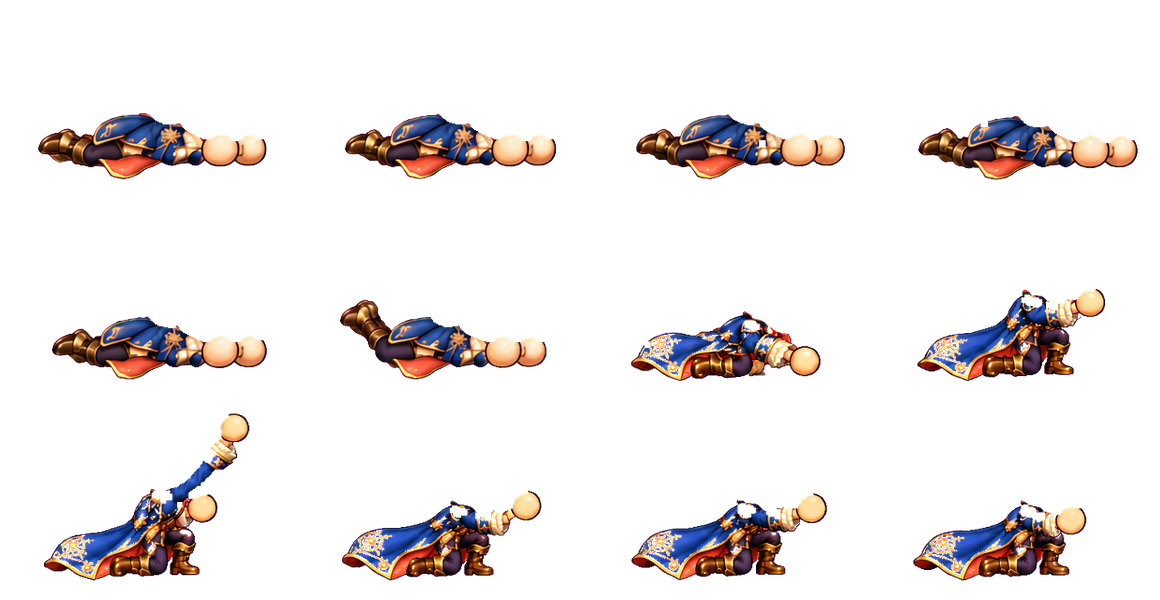
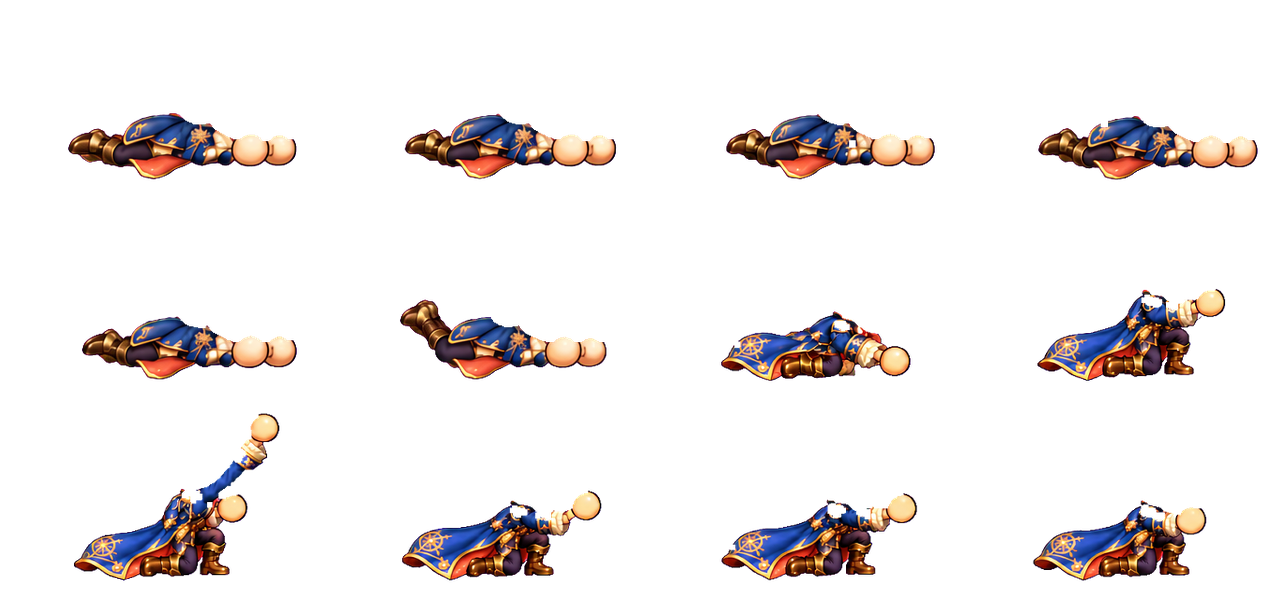
Lobby walk from a painted 6-frame sheet; combat atlas rebuilt with painted fists on both sheets
Claude-Session: https://claude.ai/code/session_01SNM3Fnyw111WXwJ74f5KjW

diff --git a/docs/combat-frames.md b/docs/combat-frames.md
@@ -1,6 +1,6 @@
 # Combate em quadros pintados (como no DDTank)
 
-Pedido do usuário em 18/10/2026, a partir do relatório `output/pdf/DDTank-rig-corpo-combate.pdf`: o corpo de combate funciona como o compositor de sprites do DDTank. Cada roupa traz as poses de combate **pintadas** em células compatíveis; o jogo só escolhe o quadro da ação atual e empilha por cima, no mesmo espaço, a cabeça universal, o cabelo, o chapéu, os óculos e a arma nas costas. Deitado para andar e mirar, **ajoelhado para arremessar** (nunca fica de pé), arma presa nas costas o tempo todo. Revisão de 18/10 à tarde (pedido do matheus): o corpo é pequeno como no DDTank, menor que a cabeça, e as **mãos são universais**: um punho redondo simples (pouco mais largo que alto, três tons de pele e contorno quase preto), sem dedos, preso a um antebraço desenhado pelo jogo (a manga continua do ombro ao cotovelo do boneco e segue até o punho, na cor `sleeve` da roupa em `combatAtlas.json` ou na cor do Ticket, com punho claro e um pouco de pulso), desenhado pelo jogo em todos os personagens na cor da pele (como no DDTank). Deitado, os dois punhos ficam lado a lado na frente do queixo, com a base na mesma linha, e o da frente é menor (cerca de 2/3), como medido na simulação do DDTank. O deitado segue as medidas da simulação do DDTank: cabeça parada, corpo curto e reto (cerca de meia cabeça aparece atrás dela), punhos sob o queixo, arma baixa atrás do quadril. Vale para todas as roupas, sem números por roupa.
+Pedido do usuário em 18/10/2026, a partir do relatório `output/pdf/DDTank-rig-corpo-combate.pdf`: o corpo de combate funciona como o compositor de sprites do DDTank. Cada roupa traz as poses de combate **pintadas** em células compatíveis; o jogo só escolhe o quadro da ação atual e empilha por cima, no mesmo espaço, a cabeça universal, o cabelo, o chapéu, os óculos e a arma nas costas. Deitado para andar e mirar, **ajoelhado para arremessar** (nunca fica de pé), arma presa nas costas o tempo todo. Revisão de 18/10 à tarde (pedido do matheus): o corpo é pequeno como no DDTank, menor que a cabeça, e, desde a revisão de 18/10 à noite (pedido do matheus: "faça por spritesheet"), as **mãos são pintadas na prancha da roupa**, como no DDTank: braço com manga e punho, terminando num punho redondo sem dedos pintado sobre os discos cor de pele do molde; o jogo tinge a pele com a cor do jogador (`tintSkin`). Quadros com `hands: true` em `combatAtlas.json` não recebem o punho desenhado em código; atlas antigos (discos ciano) continuam com o punho e o antebraço desenhados pelo jogo. Deitado, os dois punhos ficam lado a lado na frente do queixo, com a base na mesma linha, e o da frente é menor (cerca de 2/3), como medido na simulação do DDTank. O deitado segue as medidas da simulação do DDTank: cabeça parada, corpo curto e reto (cerca de meia cabeça aparece atrás dela), punhos sob o queixo, arma baixa atrás do quadril. Vale para todas as roupas, sem números por roupa.
 
 ## Quadros (`src/game/rig/combatFrames.json`)
 
@@ -27,9 +27,9 @@ O servidor anda 8 px a cada comando (90 ms). O cliente persegue essa posição e
 
 ## Arte de uma roupa nova
 
-1. `python3 scripts/make-combat-templates.py` gera os moldes `docs/templates/combat-ground.png` e `combat-throw.png`: 3×2 células de 512 px sobre magenta, com a cabeça como silhueta verde, o corpo como boneco cinza pequeno (`mannequin` no contrato, no tamanho do DDTank) e os punhos como discos ciano, onde o jogo desenha a mão universal.
-2. O Codex pinta a roupa por cima do boneco cinza, sem mãos (mangas terminam no cotovelo), com os prompts de `docs/combat-art-prompts/`: anexar o molde, a roupa em pé e as referências de pose do relatório (`output/pdf/ddtank-rig-imagens/04`, `05`, `06`). As referências do DDTank servem só de pose; a arte é nossa.
-3. `python3 scripts/build-combat-atlas.py outfit-<id>` acha a cabeça verde de cada quadro, escala a prancha para a cabeça universal, apaga o verde, coloca o corpo na célula do atlas (cabeça no x do contrato, linha mais baixa no chão) e grava `public/assets/outfits/combat/outfit-<id>.png` e a altura medida da cabeça em `src/game/combatAtlas.json`. Avisa quando o corpo pintado passa 30% do boneco cinza. Avisos e erros em `test-results/combat/outfit-<id>/`.
+1. `python3 scripts/make-combat-templates.py` gera os moldes `docs/templates/combat-ground.png` e `combat-throw.png`: 3×2 células de 512 px sobre magenta, com a cabeça como silhueta verde, o corpo como boneco cinza pequeno (`mannequin` no contrato, no tamanho do DDTank) braços cinza e os punhos como discos cor de pele com contorno.
+2. O Codex pinta a roupa por cima do boneco cinza, com braços e punhos redondos sobre os discos, com os prompts de `docs/combat-art-prompts/`: anexar o molde, a roupa em pé e as referências de pose do relatório (`output/pdf/ddtank-rig-imagens/04`, `05`, `06`). As referências do DDTank servem só de pose; a arte é nossa.
+3. `python3 scripts/build-combat-atlas.py outfit-<id>` (com `-` no lugar de uma prancha mantém os quadros dela do atlas atual) acha a cabeça verde de cada quadro, escala a prancha para a cabeça universal, apaga o verde, coloca o corpo na célula do atlas (cabeça no x do contrato, linha mais baixa no chão) e grava `public/assets/outfits/combat/outfit-<id>.png` e a altura medida da cabeça em `src/game/combatAtlas.json`. Avisa quando o corpo pintado passa 30% do boneco cinza. Avisos e erros em `test-results/combat/outfit-<id>/`.
 4. `node scripts/verify-combat-frames.mjs` monta a prancha de todas as roupas × ações (`test-results/combat/combat-frames.png`) para mostrar ao usuário.
 
 Roupa sem atlas continua no corpo deitado recortado antigo (`docs/prone-combat.md`). O Ticket de Cor e a cor do corpo se aplicam ao atlas inteiro pela mesma zona da roupa.
@@ -37,3 +37,7 @@ Roupa sem atlas continua no corpo deitado recortado antigo (`docs/prone-combat.m
 ## Fantasias
 
 A fantasia substitui as peças (como no DDTank) e já tem a prancha deitada (`-prone.png`). Para ficar de pé no arremesso ganha `-throw.png` (mesmos 6 quadros de `rise` a `settle`, cabeça própria sobre a silhueta verde do molde), registrada em `throw` no `COSTUMES` de `costumes.ts`; prompt `costume-throw.txt`.
+
+## Andar do lobby (folha pintada)
+
+Como no DDTank, o andar fora de combate também é uma folha pintada: `python3 scripts/make-walk-template.py` gera `docs/templates/walk.png` (6 quadros: contato, descida, passagem, com cada perna; contrato em `src/game/rig/walkFrames.json`), o Codex pinta com `docs/combat-art-prompts/walk.txt` e `python3 scripts/build-walk-atlas.py outfit-<id>` grava `public/assets/outfits/walk/outfit-<id>.png` e `src/game/walkAtlas.json` (altura da cabeça de cada quadro). O jogo troca de quadro pela distância andada (`frameUnits`) e põe a cabeça por cima no lugar medido (`src/game/walkBody.ts`). Roupa sem folha de andar continua com as pernas recortadas da pintura em pé.

diff --git a/CLAUDE.md b/CLAUDE.md
@@ -63,7 +63,7 @@ Regra geral: ele quer arte **pintada, nível DDTank**, com volume e cores vivas.
 - **Roupa única** (18/10, pedido do matheus para não ter de regenerar todas): o jogo tem só o **Cartógrafo da Aurora**, unissex e inicial de todos; Surfista, Executivo, Piloto e Dançarina saíram (arte apagada) e quem as tinha recebe o Cartógrafo uma vez (`RETIRED_OUTFIT_REPLACEMENTS`, `CONTENT_VERSION` 15). Roupa nova só pelo fluxo completo (combate pintado, cosméticos).
 - Personagem: cabeça 30% maior (`HEAD_SCALE=1.3` em `src/game/rig/anchors.ts`); cabelo, chapéu e óculos seguem a cabeça. Chapéu mostra o mesmo penteado de sem chapéu, cortado pelo chapéu.
 - Armas: cada uma tem kit em `shared/weaponKit.ts` (fases +0 a +9, +10, +12, +15; ícone, arma na mão, atlas de efeitos, atlas do POW, marca no cenário, sons, regra POW). Arte em `public/assets/weapons/<id>/`. O POW é **sempre** um objeto diferente e maior que o tiro normal da fase (`pow.png`, regra do matheus em 18/10); projétil sem cacos soltos em volta.
-- **Combate em quadros pintados** (18/10, `docs/combat-frames.md`, a partir do PDF `output/pdf/DDTank-rig-corpo-combate.pdf`): como no DDTank, cada roupa tem 12 poses de combate pintadas (deitado, 4 de rastejar, atingido, levantar, segurar, preparo, soltar, acompanhar, assentar) em `public/assets/outfits/combat/`; o jogador fica deitado para andar e mirar, **se ajoelha para carregar e arremessar (nunca fica de pé)**, e a arma fica presa nas costas o tempo todo. Corpo pequeno como no DDTank (menor que a cabeça, molde com boneco cinza) e **mãos universais**: punhos redondos sem dedos na cor da pele, presos a um antebraço desenhado pelo jogo (manga na cor da roupa, `sleeve` em `combatAtlas.json`, punho claro e pulso) que sai da manga pintada; deitado ficam na frente do queixo, o da frente menor (18/10 noite); a arte da roupa não tem mãos. Deitado segue as medidas do DDTank (corpo curto e reto atrás da cabeça, punhos sob o queixo, arma baixa atrás do quadril; `combatFrames.json`) (revisões de 18/10 à tarde). O andar deitado persegue a posição do servidor em velocidade constante (`src/game/battleMotion.ts`). Cabeça, cabelo, chapéu e óculos entram por cima, no lugar medido de cada quadro (molde com cabeça verde, `scripts/build-combat-atlas.py`). Roupa nova: gerar as duas pranchas pelo Codex com `docs/combat-art-prompts/` e montar o atlas. Fantasias ganham `-throw.png` (ainda de pé, falta refazer ajoelhado; a Raposa Arcana tem; o Pintinho do Trovão foi barrado pelo filtro do gerador e continua no arremesso deitado). Roupa sem atlas usa o corpo deitado recortado antigo (`docs/prone-combat.md`).
+- **Combate em quadros pintados** (18/10, `docs/combat-frames.md`, a partir do PDF `output/pdf/DDTank-rig-corpo-combate.pdf`): como no DDTank, cada roupa tem 12 poses de combate pintadas (deitado, 4 de rastejar, atingido, levantar, segurar, preparo, soltar, acompanhar, assentar) em `public/assets/outfits/combat/`; o jogador fica deitado para andar e mirar, **se ajoelha para carregar e arremessar (nunca fica de pé)**, e a arma fica presa nas costas o tempo todo. Corpo pequeno como no DDTank (menor que a cabeça, molde com boneco cinza) e **mãos pintadas na sprite sheet da roupa** (18/10 noite, pedido do matheus: "faça por spritesheet"): braço com manga terminando num punho redondo sem dedos, pintado sobre os discos cor de pele do molde; o jogo só tinge a pele (`tintSkin`); deitado ficam na frente do queixo. Quadros com `hands: true` no atlas não recebem punho em código (atlas antigo de discos ciano ainda usa o punho desenhado). O andar do lobby também é folha pintada de 6 quadros (`walkFrames.json`, `build-walk-atlas.py`, `src/game/walkBody.ts`), trocada pela distância andada, cabeça por cima. Deitado segue as medidas do DDTank (corpo curto e reto atrás da cabeça, punhos sob o queixo, arma baixa atrás do quadril; `combatFrames.json`) (revisões de 18/10 à tarde). O andar deitado persegue a posição do servidor em velocidade constante (`src/game/battleMotion.ts`). Cabeça, cabelo, chapéu e óculos entram por cima, no lugar medido de cada quadro (molde com cabeça verde, `scripts/build-combat-atlas.py`). Roupa nova: gerar as duas pranchas pelo Codex com `docs/combat-art-prompts/` e montar o atlas. Fantasias ganham `-throw.png` (ainda de pé, falta refazer ajoelhado; a Raposa Arcana tem; o Pintinho do Trovão foi barrado pelo filtro do gerador e continua no arremesso deitado). Roupa sem atlas usa o corpo deitado recortado antigo (`docs/prone-combat.md`).
 - Lobby "Praça Celeste": praça com 3 telas de largura (4608 px, `shared/lobby.ts`), câmera segue o jogador; os três "portais" são o pódio do ranking PvP diário: os 3 jogadores com mais vitórias no dia (horário de Brasília, partidas contra bot contam) aparecem em pé no pódio com a roupa equipada, nome e vitórias, sem o anel/halo de brilho atrás (`Store.dailyRanking`, evento `ranking`). Prompts em `docs/lobby-art-prompts.md`; o Codex entrega imagens em `public/assets/lobby` e não edita o código do lobby. Fundo em camadas de parallax (18/10): céu, ilhas, cidade, árvores e balaustrada montados por `npm run build:lobby` a partir de `scripts/lobby-layout.json`; o piso `floor.webp` não muda (ver "Parallax" em `docs/lobby-art-prompts.md`).
 
 ## Testes e prévias
